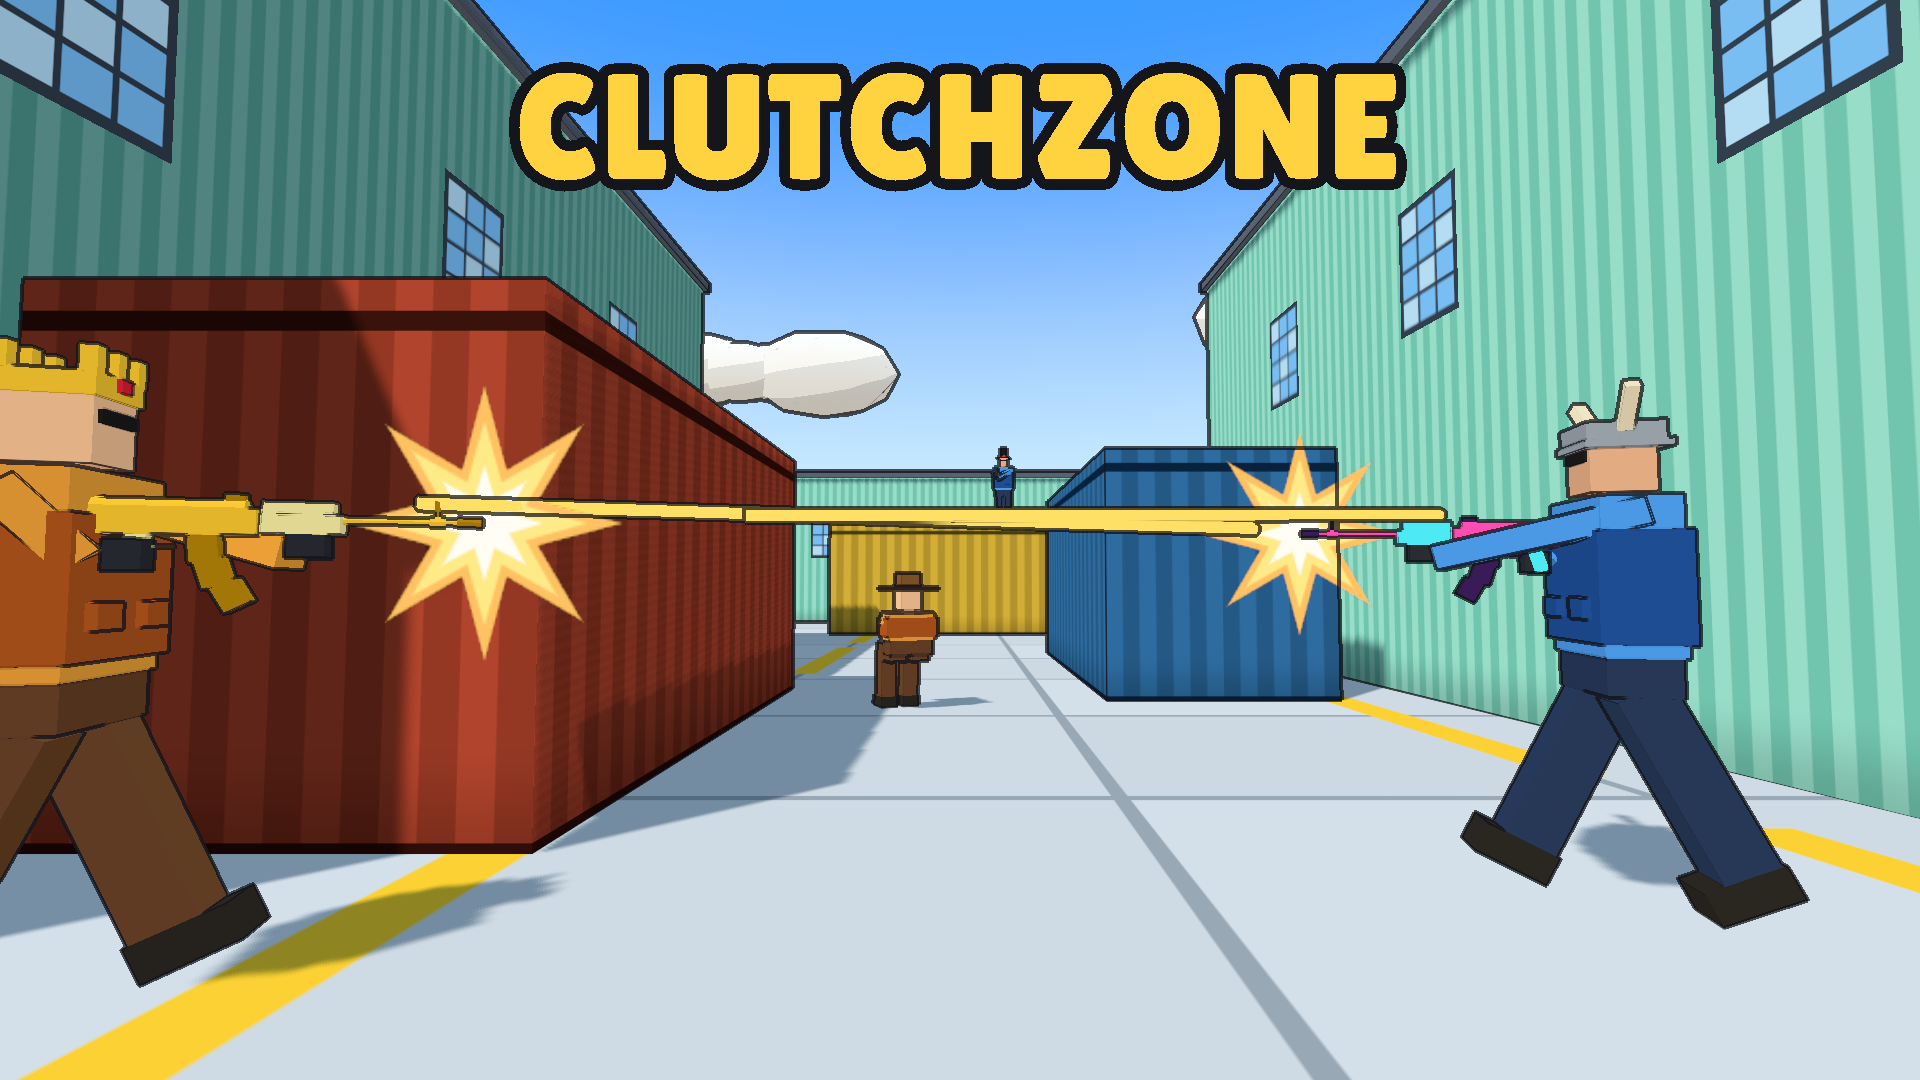
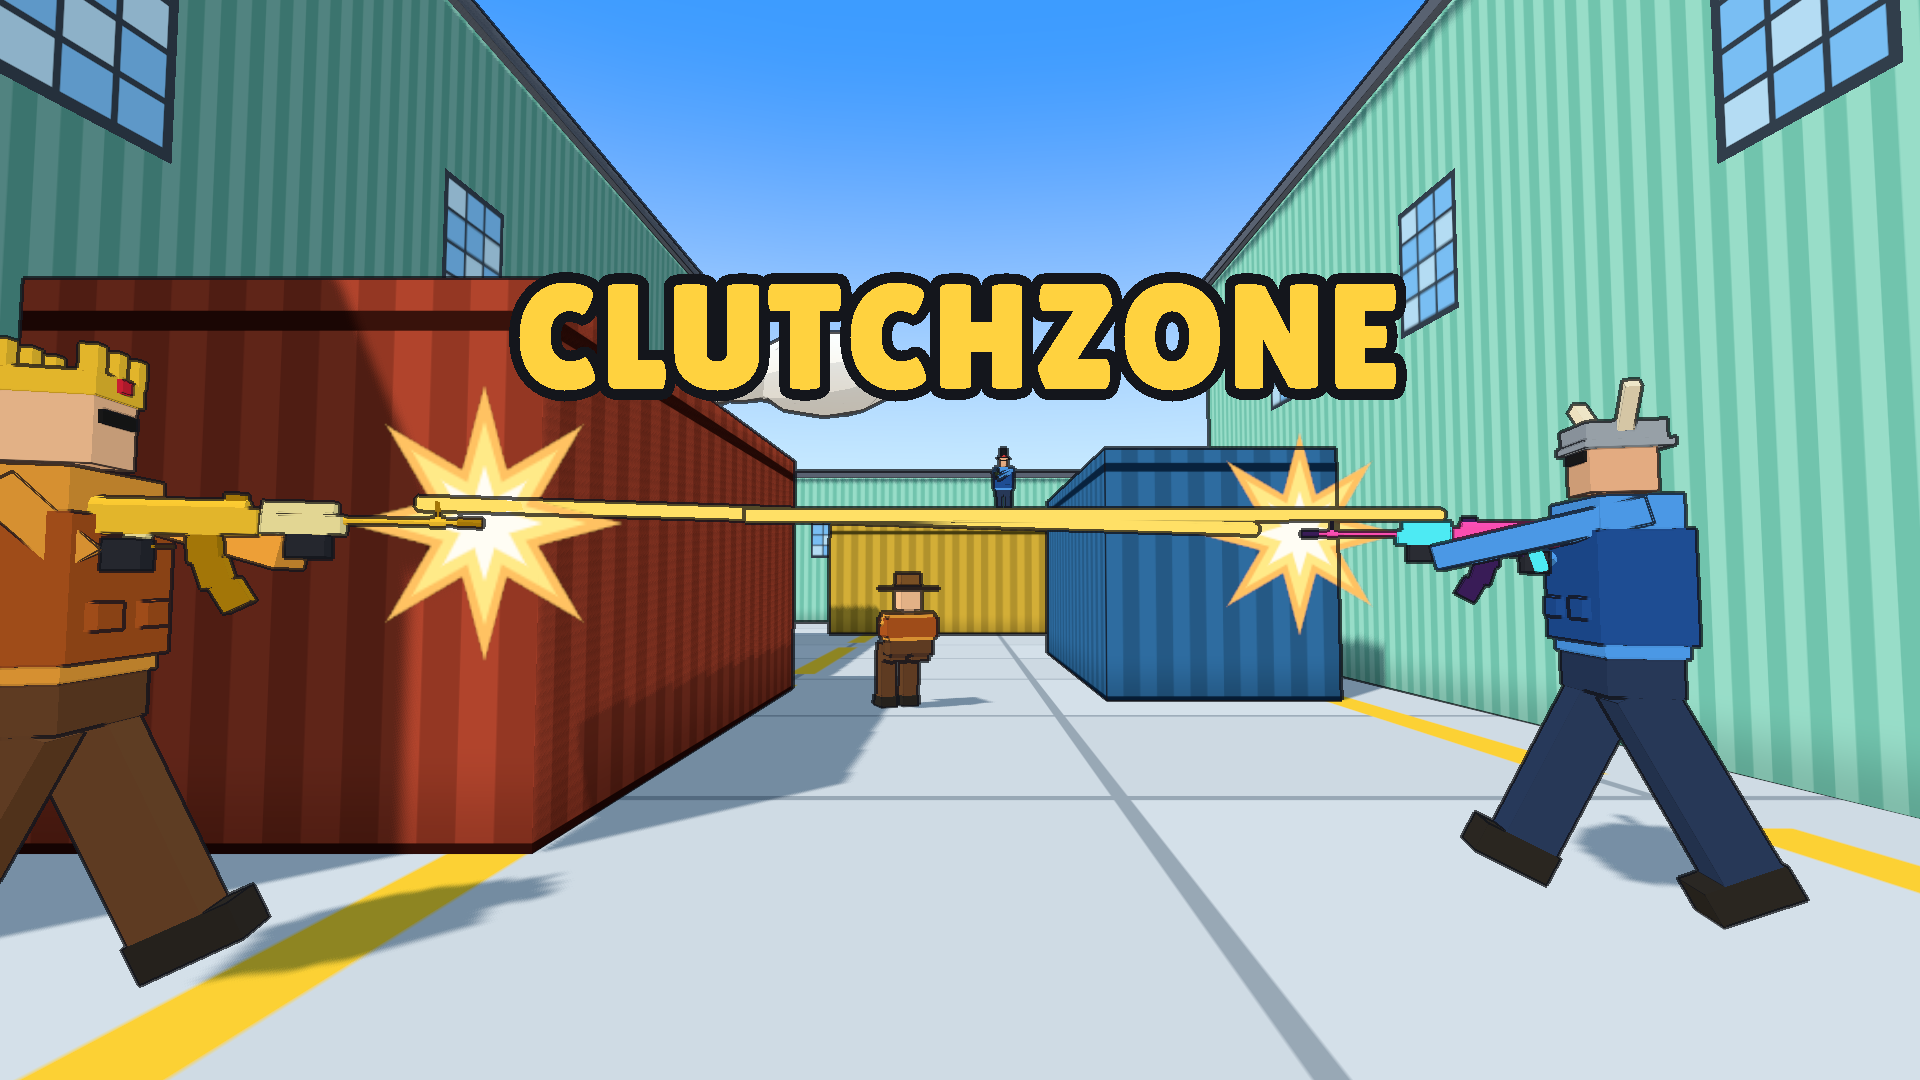
Covers: title below CrazyGames' label area
CrazyGames puts labels over the top-left 40% x 20% of a cover, which hid
the start of the title.

Changed region(s): [[0.25, 0.2444, 0.75, 0.3667], [0.25, 0.0611, 0.75, 0.1833]]

diff --git a/scripts/covers.py b/scripts/covers.py
@@ -15,9 +15,10 @@ POSES = [
 ]
 BEAMS = [[-1.6, 1.45, 10.2, 1.2, 1.4, 9.7], [2.0, 1.47, 9.5, -0.6, 1.42, 10.1]]
 SHOTS = {  # viewport, camera (x, y, z, yaw, pitch), fov, title size and top, how far apart the duel is
-    "landscape": ((1920, 1080), (0.1, 1.2, 12.9, 0.0, 0.05), 64, 150, 40, 1.0),
-    "portrait": ((800, 1200), (0.25, 1.3, 13.0, 0.0, 0.06), 78, 108, 50, 1.0),
-    "square": ((800, 800), (0.1, 1.2, 12.9, 0.0, 0.06), 70, 100, 30, 0.68),
+    # the title starts below the top 20%: CrazyGames puts labels over the top-left 40% x 20% of a cover
+    "landscape": ((1920, 1080), (0.1, 1.2, 12.9, 0.0, 0.05), 64, 150, 250, 1.0),
+    "portrait": ((800, 1200), (0.25, 1.3, 13.0, 0.0, 0.06), 78, 108, 270, 1.0),
+    "square": ((800, 800), (0.1, 1.2, 12.9, 0.0, 0.06), 70, 100, 180, 0.68),
 }
 out = sys.argv[1] if len(sys.argv) > 1 else "."
 with sync_playwright() as p:
